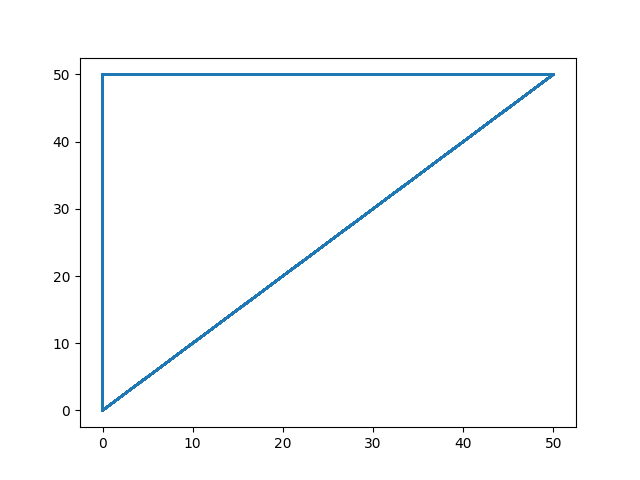
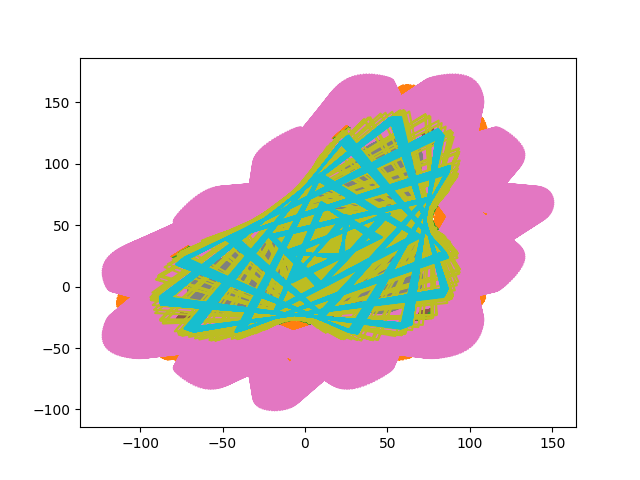
Mejor plot

diff --git a/src/hopalong.py b/src/hopalong.py
@@ -1,29 +1,37 @@
 import sys
 
 import matplotlib.pyplot as mp
+import random as rand
 from numpy import sqrt
 
 class Hopalong:
 
-    def __init__(self, alpha=50.0, beta=50.0, gamma=0.0, random_points=25, iterations=2000):
+    def __init__(self, alpha=50.0, beta=50.0, gamma=0.0, random_points=10, iterations=1000):
         self.alpha = alpha
         self.beta = beta
         self.gamma = gamma
         self.random_points = random_points
         self.iterations = iterations
-        self.x=[0.]
-        self.y=[0.]
+        self.x = list()
+        xx=[rand.random()*100 for _ in range(random_points)]
+        self.x.append(xx)
+        yy=[self.y_function(0,i) for i in range(random_points)]
+        self.y = list()
+        self.y.append(yy)
 
-    def x_function(self, i):
-        return self.y[i]-self.sgn(self.x[i])*sqrt(abs(self.beta*self.x[i]-self.gamma))
+    def x_function(self, i, j):
+        return self.y[i][j]-self.sgn(self.x[i][j])*sqrt(abs(self.beta*self.x[i][j]-self.gamma))
 
-    def y_function(self, i):
-        return self.alpha-self.x[i]
+    def y_function(self, i, j):
+        return self.alpha-self.x[i][j]
 
     def iterar(self):
         for i in range(self.iterations):
-            xx=self.x_function(i)
-            yy=self.y_function(i)
+            xx = []
+            yy = []
+            for j in range(self.random_points):
+                xx.append(self.x_function(i,j))
+                yy.append(self.y_function(i,j))
             self.x.append(xx)
             self.y.append(yy)
 
